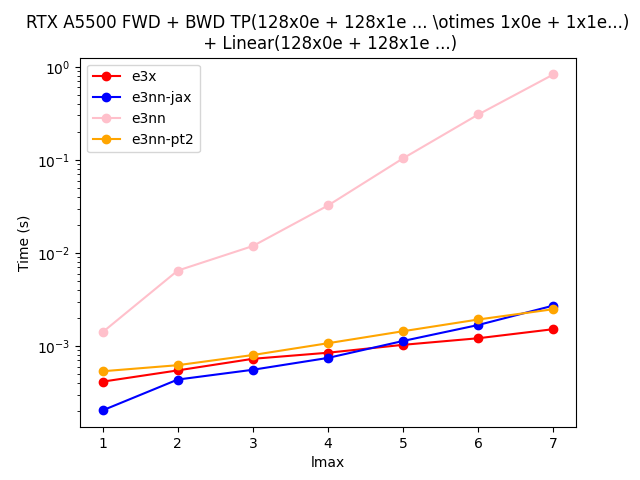
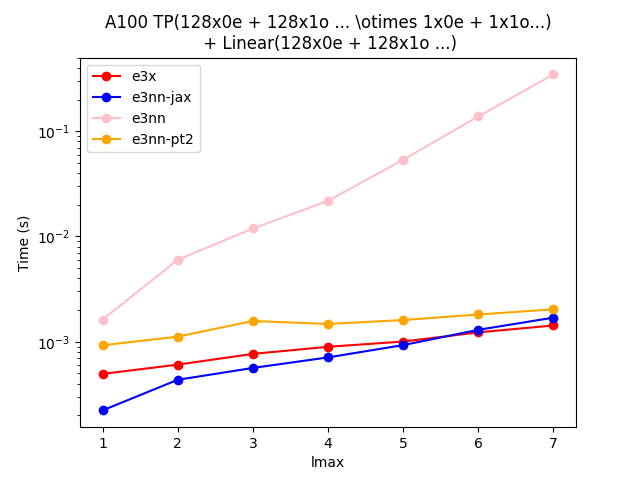
updating benchmarks

diff --git a/examples/benchmarking/benchmark.py b/examples/benchmarking/benchmark.py
@@ -36,15 +36,9 @@ if arg_parser.mode == "torch":
     from e3nn import io, o3, util
     import e3nn_pt2
     import functools
+    torch.backends.cuda.matmul.allow_tf32 = True
 
     def TPLinear_E3NNPT2(tp_e3nnpt2, x, y):
-        # def loss_function(params, inputs):
-        #     return torch.sum(torch.tanh(
-        #                 torch.func.functional_call(
-        #                     mod,
-        #                     dict(mod.named_parameters()),
-        #                     (x, y,))))
-        # return torch.func.grad_and_value(loss_function, argnums=0)(x, y)
         out = tp_e3nnpt2(x, y)
         return out, out.tanh().sum().backward()
 
@@ -308,8 +302,7 @@ if arg_parser.plot:
         plt.xlabel("lmax")
         plt.ylabel("Time (s)")
         plt.yscale("log")
-        plt.title(
-            f"RTX A5500 FWD + BWD TP({arg_parser.features}x0e + {arg_parser.features}x1e ... \otimes 1x0e + 1x1e...)\n + Linear({arg_parser.features}x0e + {arg_parser.features}x1e ...)"
-        )
+        parity = "e" if arg_parser.all_even else "o"
+        plt.title(f"A100 TP({arg_parser.features}x0e + {arg_parser.features}x1{parity} ... \otimes 1x0e + 1x1{parity}...)\n + Linear({arg_parser.features}x0e + {arg_parser.features}x1{parity} ...)")
         all_even = "_all_even" if arg_parser.all_even else ""
         plt.savefig(f"benchmark_tplinear_batch_{arg_parser.batch}{all_even}.png")

diff --git a/README.md b/README.md
@@ -36,6 +36,8 @@ out = mod(x, y)
 
 ## Runtime comparision with other packages in the e3nn-verse
 
+- Comparing SE(3) (top) and E(3) (bottom) tensor product decomposition + linear
+
 <div class="container">
       <div class="image">
       <img src="examples/benchmarking/benchmark_tplinear_batch_100_all_even.png"  style="width:100%"/>
